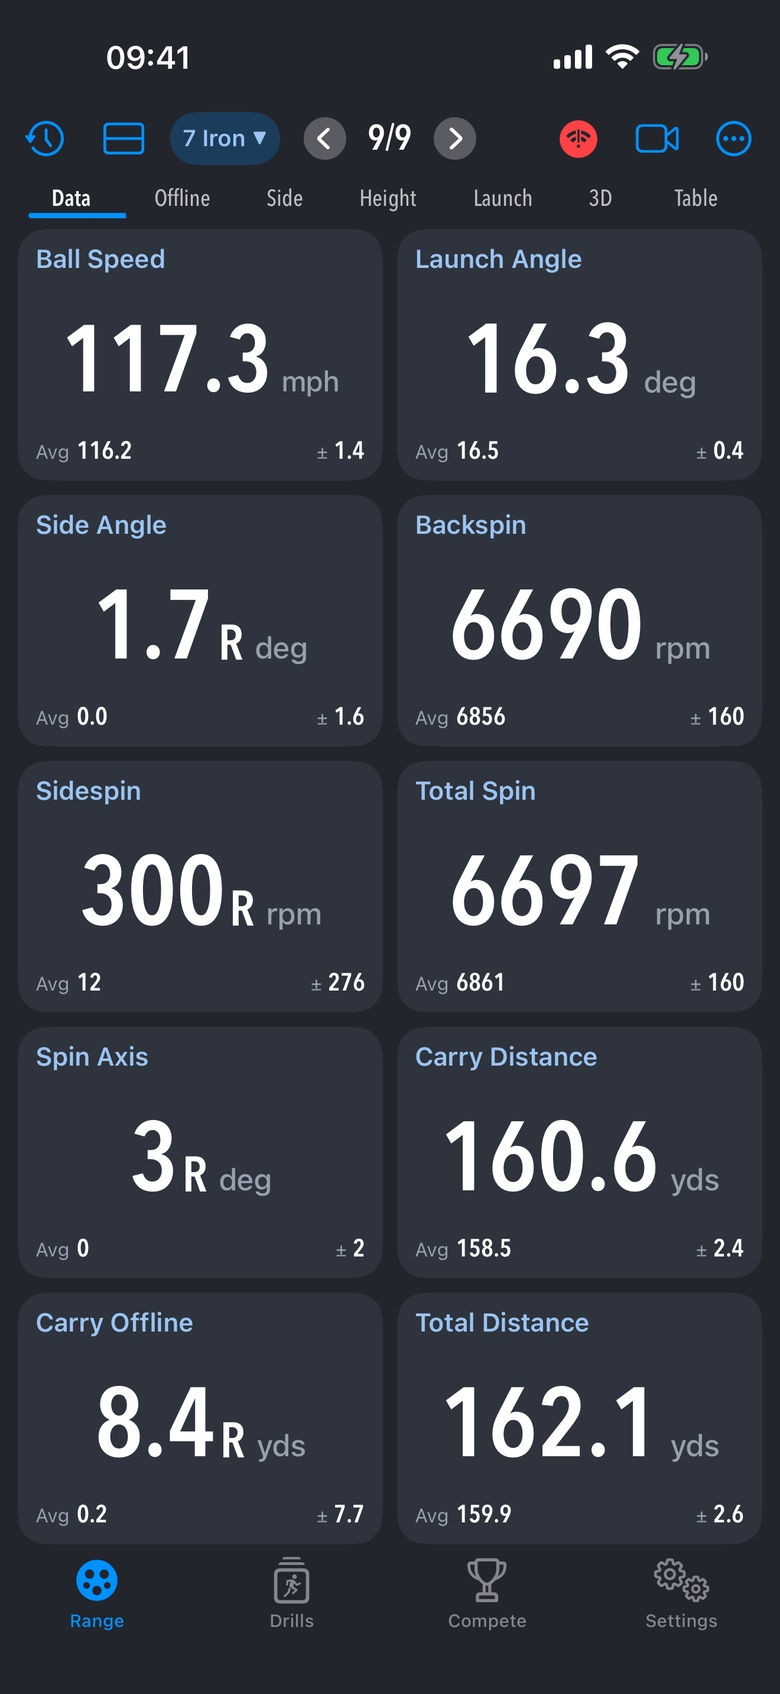
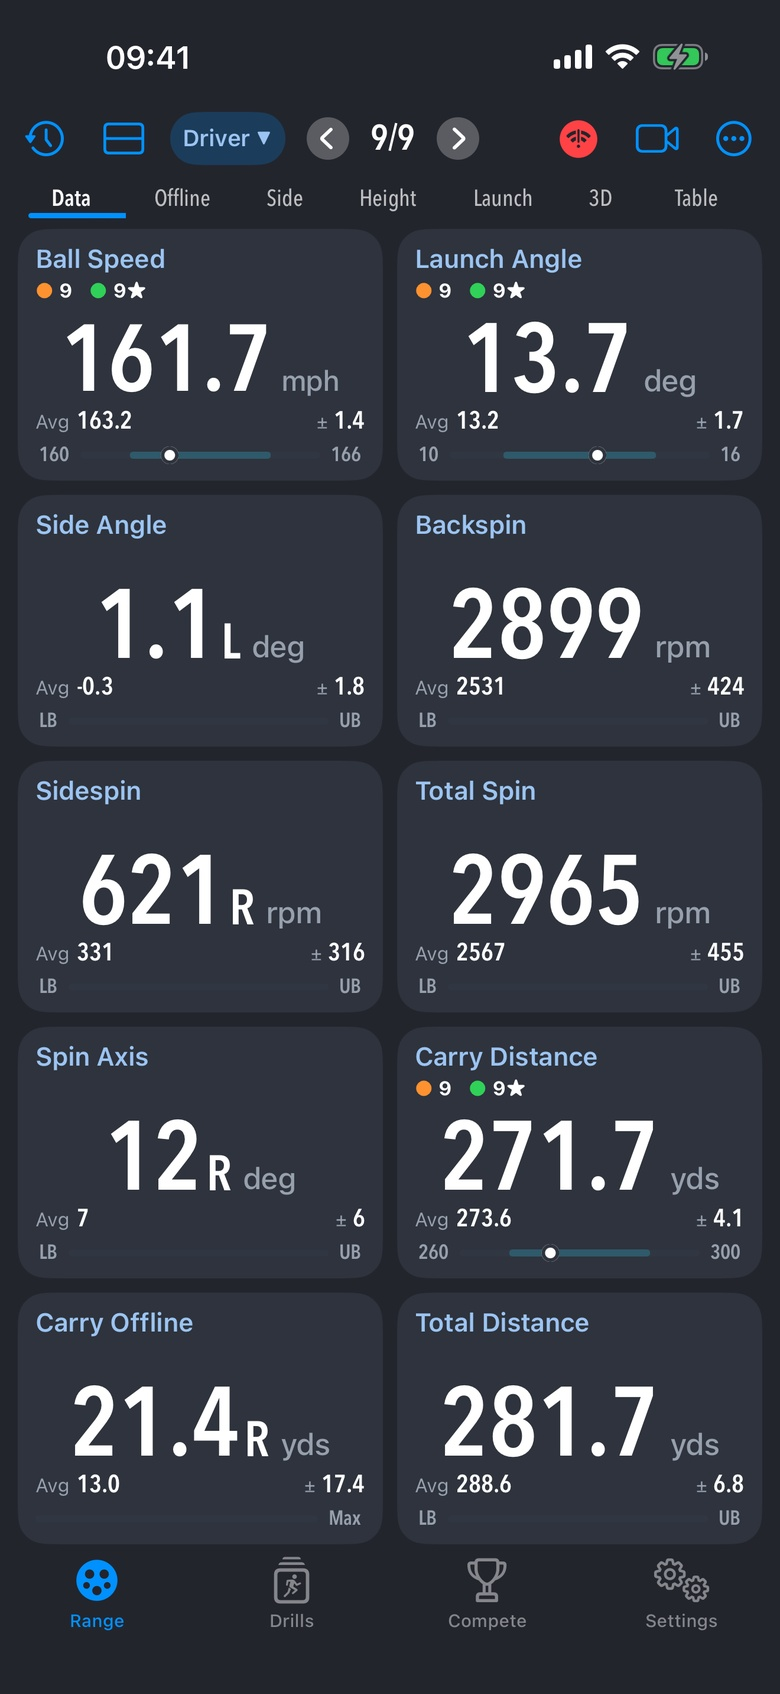
Every image once on the page: Swing Compare is back, four different swings, tracer lines toward the fairway
The swing pictures showed one clip four times, swing-tracer.jpg even twice. Now four different swings of
3 September each appear once: the tracer detail in the player card (driver, 10:47), swing-tracer.jpg in the
swing camera card (driver, 11:12), swing-preview.jpg filmed face-on at the top (13:49) and the new file
swing-tracer-2.jpg in the swing section (driver, 11:48). The three tracer lines are the computed flights of
three different real drives that start left of straight, so each line leaves the ball toward the fairway
instead of drifting to the right.

Swing Compare is on the page again: features-compare.jpg (two swings in step at the top, A, B and B - A
below) next to the tracer detail in the player card, and features-compare-2.jpg (two drives in step to the
finish) as a third phone in the swing section. The new rule .phone-pair--even keeps the compare phone and
the tracer detail at one height on every screen width (new.css ?v=12).

The gallery's Data tab now shows the nine real driver shots instead of the 7-iron shot that the corridor
picture already shows. New files start at ?v=1, replaced ones get a new cache buster; alt texts and the two
new captions describe the new pictures.

diff --git a/index.html b/index.html
@@ -47,7 +47,7 @@
     <link rel="canonical" href="https://trajectoryx.com/"/>
 
     <link rel="stylesheet" href="css/fonts.css"/>
-    <link rel="stylesheet" href="css/new.css?v=11"/>
+    <link rel="stylesheet" href="css/new.css?v=12"/>
     <link rel="stylesheet" href="css/light.css?v=6"/>
     <link rel="stylesheet" href="css/alt-bands.css?v=7"/>
 
@@ -272,10 +272,18 @@
                         <p class="hl-fine">Compare any two of your own shots — the app doesn't know who is swinging, so pick shots of the same golfer.</p>
                         <a class="more" href="#swing">More on swing video</a>
                     </div>
-                    <figure class="hero-figure hl-media">
-                        <img class="hero-photo portrait" src="images/features-tracer-detail.jpg?v=4" alt="Swing video with the ball tracer: a golfer in the finish on a golf-course tee, a computed flight drawn as a red line from the ball into the sky" width="780" height="916" loading="lazy" decoding="async"/>
-                        <figcaption>The Tracer tool: a driver off the tee, the line is the computed flight</figcaption>
-                    </figure>
+                    <!-- Swing Compare and the Tracer tool side by side at one height: each figure is as wide as its image's
+                         aspect ratio (--ar = width / height), see .phone-pair--even in css/new.css -->
+                    <div class="phone-pair phone-pair--even hl-media">
+                        <figure style="--ar:0.4604">
+                            <img src="images/features-compare.jpg?v=1" alt="Swing Compare on iPhone: two down-the-line swings from the golf course side by side, both at the top of the backswing, with Ball Speed, Efficiency, Carry Distance and Carry Offline for A, B and B − A below and the positions Address, Top, Impact and End as tabs" width="780" height="1694" loading="lazy" decoding="async"/>
+                            <figcaption>Swing Compare: two swings, in step at the top</figcaption>
+                        </figure>
+                        <figure style="--ar:0.8515">
+                            <img src="images/features-tracer-detail.jpg?v=5" alt="Swing video with the ball tracer: a golfer in the finish on a golf-course tee, a computed flight drawn as a red line that leaves the ball toward the fairway and climbs into the sky" width="780" height="916" loading="lazy" decoding="async"/>
+                            <figcaption>The Tracer tool: a driver off the tee, the line is the computed flight</figcaption>
+                        </figure>
+                    </div>
                 </article>
 
                 <!-- (b) My Bubble + Aim Planner (8.5) -->
@@ -364,7 +372,7 @@
                     </div>
                     <div class="phone-pair hl-media">
                         <figure>
-                            <img src="images/swing-tracer.jpg?v=4" alt="TrajectoryX swing player with the ball tracer: a computed ball flight drawn over a driver swing on the golf course, the Tracer tool open, and the positions Address, Top, Impact and End as tabs over the timeline below" width="780" height="1696" loading="lazy" decoding="async"/>
+                            <img src="images/swing-tracer.jpg?v=5" alt="TrajectoryX swing player with the ball tracer: a computed ball flight drawn over a driver swing on the golf course, the Tracer tool open, and the positions Address, Top, Impact and End as tabs over the timeline below" width="780" height="1696" loading="lazy" decoding="async"/>
                             <figcaption>Every shot gets its clip — here with the tracer</figcaption>
                         </figure>
                     </div>
@@ -802,7 +810,7 @@
                 <figcaption>Dispersion &amp; target at a glance</figcaption>
             </figure>
             <figure class="phone reveal" style="--delay:80ms">
-                <img src="images/features-range-data.jpg?v=2" alt="The Data tab: ball speed, launch and side angle, spin, carry, offline and total as tiles, each with its session average and spread" width="780" height="1694" loading="lazy" decoding="async"/>
+                <img src="images/features-range-data.jpg?v=3" alt="The Data tab after nine driver shots: ball speed, launch and side angle, spin, carry, offline and total as tiles, each with its session average and spread, and corridors on ball speed, launch angle and carry" width="780" height="1694" loading="lazy" decoding="async"/>
                 <figcaption>Every value at a glance</figcaption>
             </figure>
             <figure class="phone reveal" style="--delay:160ms">
@@ -933,12 +941,16 @@
         <div class="visual reveal" style="--delay:100ms">
             <div style="display:flex; gap:1rem; justify-content:center; align-items:flex-start; flex-wrap:wrap;">
                 <figure class="phone" style="flex:1 1 200px; max-width:260px;">
-                    <img src="images/swing-preview.jpg?v=4" alt="TrajectoryX swing player: a golfer at the top of the backswing, the video edge to edge, with the positions Address, Top, Impact and End as tabs over the timeline below" width="598" height="1300" loading="lazy" decoding="async"/>
+                    <img src="images/swing-preview.jpg?v=5" alt="TrajectoryX swing player: a golfer filmed face-on at the top of the backswing, the video edge to edge, with the positions Address, Top, Impact and End as tabs over the timeline below" width="598" height="1300" loading="lazy" decoding="async"/>
                     <figcaption>Auto-detected: Address · Top · Impact · End</figcaption>
                 </figure>
                 <figure class="phone" style="flex:1 1 200px; max-width:260px;">
-                    <img src="images/swing-tracer.jpg?v=4" alt="TrajectoryX swing player with the ball tracer: a computed ball flight drawn over a driver swing on the golf course, the Tracer tool open, and the positions Address, Top, Impact and End as tabs over the timeline below" width="780" height="1696" loading="lazy" decoding="async"/>
+                    <img src="images/swing-tracer-2.jpg?v=1" alt="TrajectoryX swing player with the ball tracer: a golfer in the finish on a tee between two rows of trees, the computed flight of the drive drawn from the ball up into the sky, the Tracer tool open, and the positions Address, Top, Impact and End as tabs over the timeline below" width="780" height="1696" loading="lazy" decoding="async"/>
                     <figcaption>Ball tracer in your own video</figcaption>
+                </figure>
+                <figure class="phone" style="flex:1 1 200px; max-width:260px;">
+                    <img src="images/features-compare-2.jpg?v=1" alt="Swing Compare on iPhone: two down-the-line drives from golf-course tees side by side, both in the finish, with Ball Speed, Efficiency, Carry Distance and Carry Offline for A, B and B − A below and the positions Address, Top, Impact and End as tabs" width="780" height="1694" loading="lazy" decoding="async"/>
+                    <figcaption>Swing Compare: two swings, in step to the finish</figcaption>
                 </figure>
             </div>
         </div>

diff --git a/css/new.css b/css/new.css
@@ -762,6 +762,13 @@ footer { border-top: 1px solid var(--border); padding-block: 3rem; }
 @media (max-width: 380px) {
     #features .hl-modes { grid-template-columns: 1fr; }
 }
+/* Two images of different shapes at one height (the 8.5 player card: the Swing Compare phone next to the
+   tracer detail). Each figure grows with its image's aspect ratio (--ar = width / height on the figure), so
+   both images end at the same height on every screen width; after the 1040px rule above, which it overrides. */
+#features .phone-pair--even { max-width: 540px; margin-inline: auto; }
+#features .phone-pair--even figure { flex: var(--ar, 0.46) 1 0; width: auto; min-width: 0; }
+#features .phone-pair--even img,
+#features .card.feature-hero.hl .phone-pair--even img { width: 100%; max-height: none; }
 
 /* ==========================================================================
    Responsive
